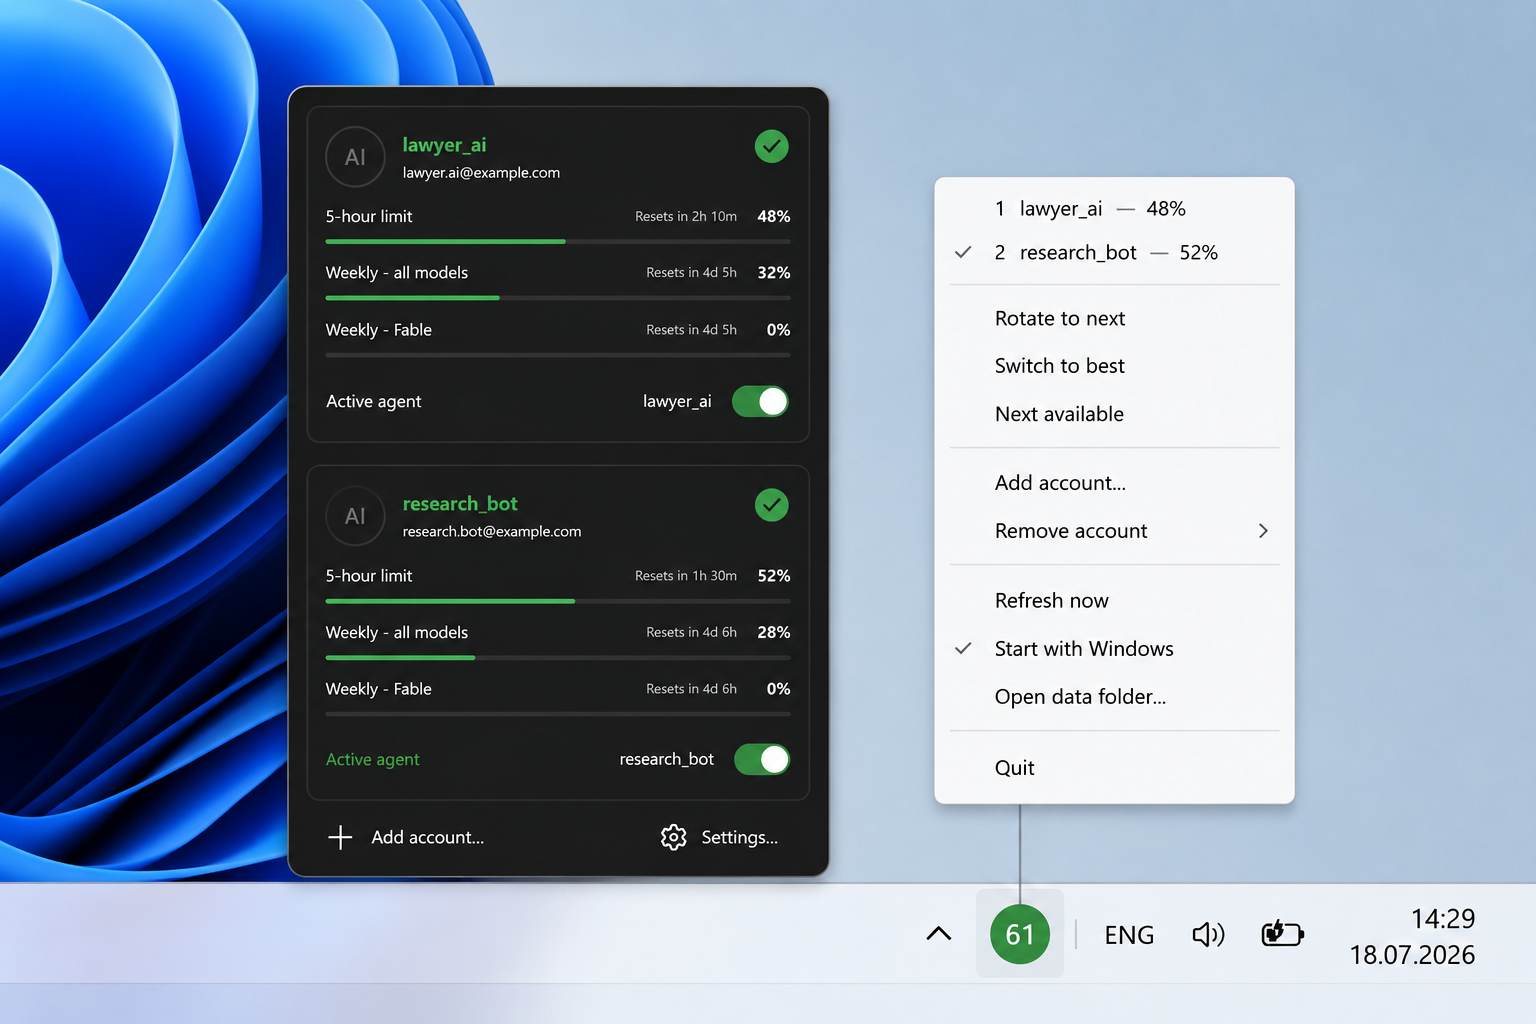
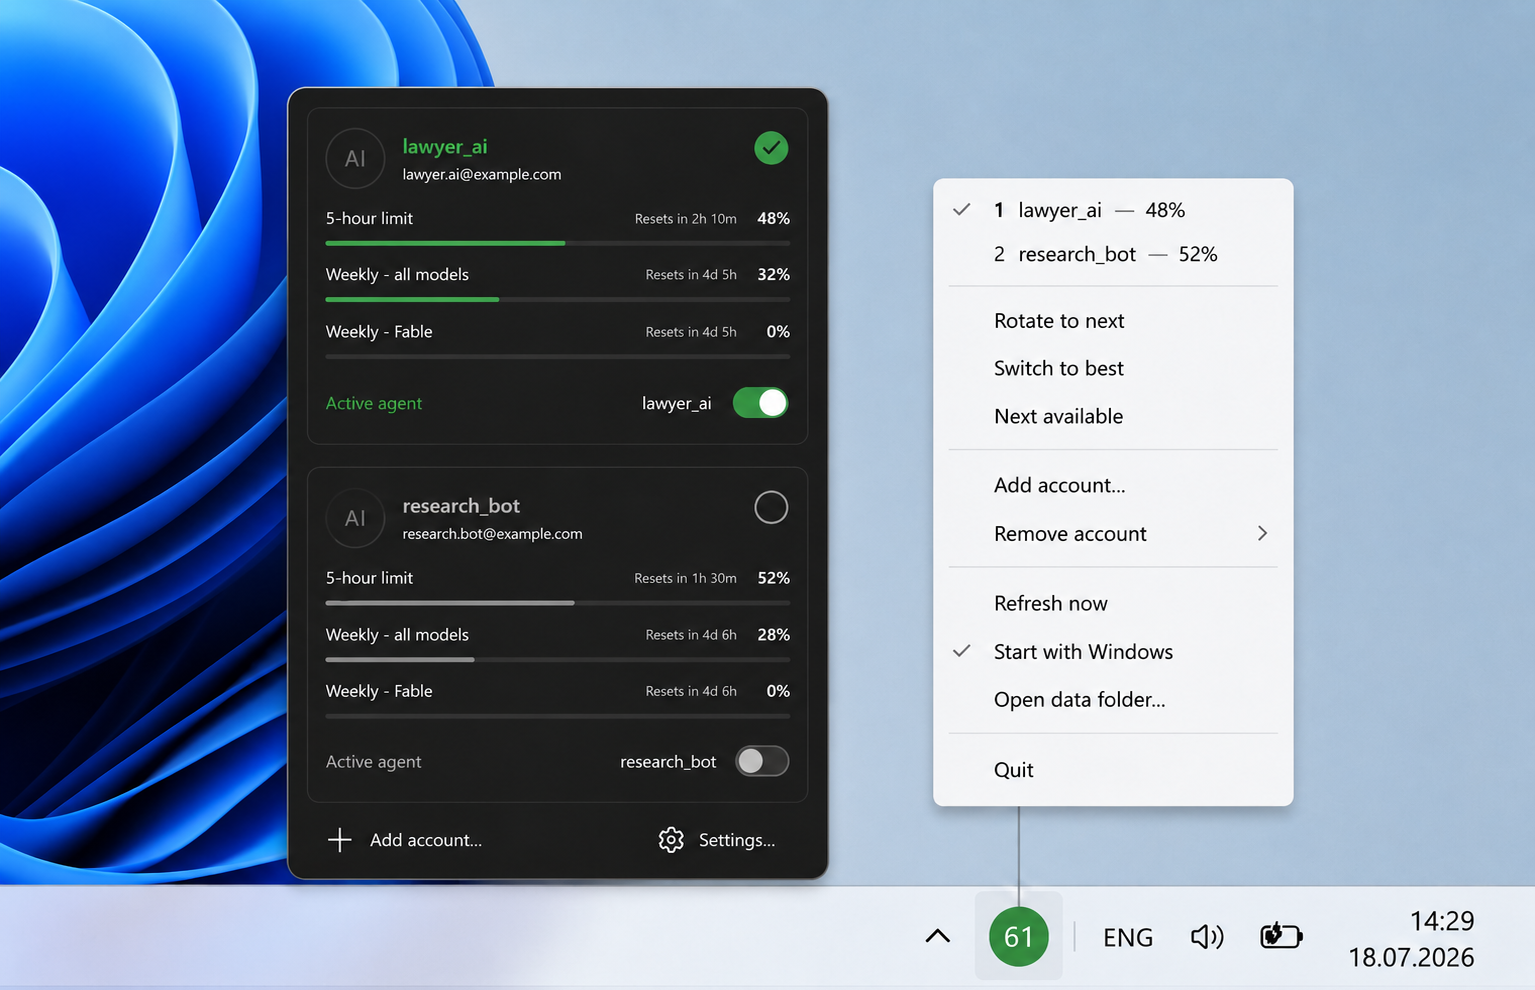
Fix: active account credential going stale after reboot; installer no longer wipes the vault on silent uninstall
- Mirror the live credential into the active account's vault slot every refresh
  (captureLiveCredential). Claude Code rotates the single-use refresh token in
  the live file; the vault copy fell behind and was rejected after a reboot
  without a switch, showing the account as 'usage unavailable'.
- Use the live credential (not the vault copy) as the source of truth for the
  active account's usage, and never self-refresh it — avoids double-rotating a
  shared refresh token and invalidating the live login.
- Installer: skip the 'delete accounts?' prompt during a silent uninstall.
  Under /SUPPRESSMSGBOXES a Yes/No box returns Yes, so every reinstall was
  wiping the credential store.

diff --git a/core/switcher.h b/core/switcher.h
@@ -102,6 +102,36 @@ inline bool captureLiveProfile(Vault& v, const LiveState& live) {
     return v.writeAcctJson(acc->num, live.rawOauthAccount);
 }
 
+// Mirror the live credential into the active account's vault slot.
+//
+// Claude Code owns ~/.claude/.credentials.json and rotates the OAuth refresh
+// token there (single-use rotation: each refresh invalidates the previous
+// token). The vault holds its own copy of that credential, which only gets
+// re-synced during a switch. So if the user works on an account and then shuts
+// down (or the machine reboots) without switching through the app, Claude
+// Code's rotations move past the vault's copy, and the stored refresh token is
+// dead the next time that account goes inactive — the account shows up as
+// "usage unavailable" and needs a re-login.
+//
+// Calling this on every refresh keeps the stored copy in step with the live
+// one, so the vault always has the current refresh token. Writes only when the
+// tokens actually changed. Returns true if something was saved.
+inline bool captureLiveCredential(Vault& v, const LiveState& live) {
+    if (!live.haveCred || !live.haveIdentity) return false;
+    OAuthCred c = parseCredentials(live.credJson);
+    if (!c.valid) return false;               // API-key / sentinel live login: skip
+    Account* acc = v.byEmail(live.email);
+    if (!acc) return false;
+    std::string stored;
+    if (v.readCred(acc->num, stored)) {
+        OAuthCred s = parseCredentials(stored);
+        if (s.valid && s.accessToken == c.accessToken && s.refreshToken == c.refreshToken)
+            return false;                     // already current — no disk churn
+    }
+    VaultLock lock;
+    return v.writeCred(acc->num, live.credJson);
+}
+
 // Capture the current live login into the vault (add or update-in-place).
 // Identity comes from ~/.claude.json's oauthAccount. Returns the account
 // number, or 0 on failure with `err` set.

diff --git a/chuhaister_tray.cpp b/chuhaister_tray.cpp
@@ -312,7 +312,8 @@ static std::map<int, UsageCache> g_usageCache;
 static const int USAGE_TTL_ACTIVE = 60;   // seconds
 static const int USAGE_TTL_IDLE = 300;
 
-static bool accountUsage(cswap::Vault& v, const cswap::Account& a, bool active, cswap::Usage& out) {
+static bool accountUsage(cswap::Vault& v, const cswap::Account& a, bool active,
+                         const cswap::LiveState& live, cswap::Usage& out) {
     UsageCache& c = g_usageCache[a.num];
     time_t now = time(nullptr);
     if (c.valid && now - c.fetchedAt < (active ? USAGE_TTL_ACTIVE : USAGE_TTL_IDLE)) {
@@ -321,13 +322,19 @@ static bool accountUsage(cswap::Vault& v, const cswap::Account& a, bool active, 
     }
     auto serveStale = [&]() { if (c.valid) { out = c.usage; return true; } return false; };
 
+    // For the active account the live file is the source of truth — Claude Code
+    // keeps its token fresh and owns its rotation. Reading the vault copy and
+    // refreshing it ourselves would rotate a shared refresh token twice and
+    // invalidate the live login. Inactive accounts are ours to refresh.
     std::string credJson;
-    if (!v.readCred(a.num, credJson)) return serveStale();
+    bool fromLive = active && live.haveCred && live.haveIdentity && live.email == a.email;
+    if (fromLive) credJson = live.credJson;
+    else if (!v.readCred(a.num, credJson)) return serveStale();
+
     cswap::OAuthCred cred = cswap::parseCredentials(credJson);
     if (!cred.valid) return serveStale();
     if (cswap::tokenExpired(cred)) {
-        // Only stored (inactive) tokens are ours to rotate; the live one is
-        // Claude Code's business.
+        if (fromLive) return serveStale();  // Claude Code will refresh the live token
         if (cswap::refreshCredentials(cred) != cswap::RefreshError::None) return serveStale();
         v.writeCred(a.num, cswap::serializeCredentials(cred));
     }
@@ -357,6 +364,10 @@ static Model buildModel() {
     // switch back to it restores Claude Code's own fields rather than a
     // synthesized stub. No-op once stored and unchanged.
     cswap::captureLiveProfile(v, live);
+    // Keep the active account's stored credential in step with Claude Code's
+    // live refresh-token rotation, so it doesn't die after a reboot without a
+    // switch (see captureLiveCredential).
+    cswap::captureLiveCredential(v, live);
     for (const cswap::Account& a : v.accounts) {
         Acct acc;
         acc.num = a.num;
@@ -365,7 +376,7 @@ static Model buildModel() {
         acc.active = live.haveIdentity && live.email == a.email;
         acc.disabled = a.disabled;
         cswap::Usage u;
-        if (accountUsage(v, a, acc.active, u)) {
+        if (accountUsage(v, a, acc.active, live, u)) {
             if (u.fiveHour.present) addRow(acc, L"5-hour limit", u.fiveHour.pct, u.fiveHour.resetsAt);
             if (u.sevenDay.present) addRow(acc, L"Weekly · all models", u.sevenDay.pct, u.sevenDay.resetsAt);
             for (const cswap::ScopedWindow& s : u.scoped)

diff --git a/chuhaister_core.cpp b/chuhaister_core.cpp
@@ -71,7 +71,8 @@ static int cmdAddCurrent(Vault& v) {
 
 static int cmdList(Vault& v) {
     LiveState live = readLiveState();
-    captureLiveProfile(v, live);  // opportunistic; see switcher.h
+    captureLiveProfile(v, live);     // opportunistic; see switcher.h
+    captureLiveCredential(v, live);  // keep the active account's token current
     if (v.accounts.empty()) {
         printf("no managed accounts (run: cswap-core add-current)\n");
         return 0;